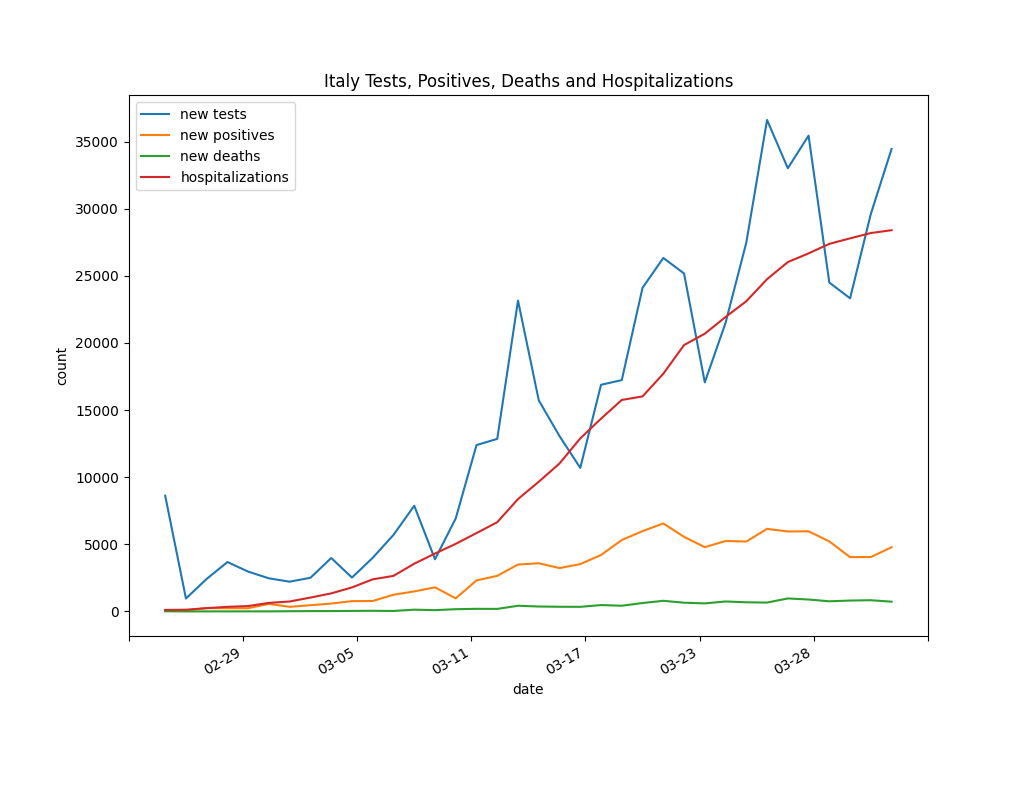
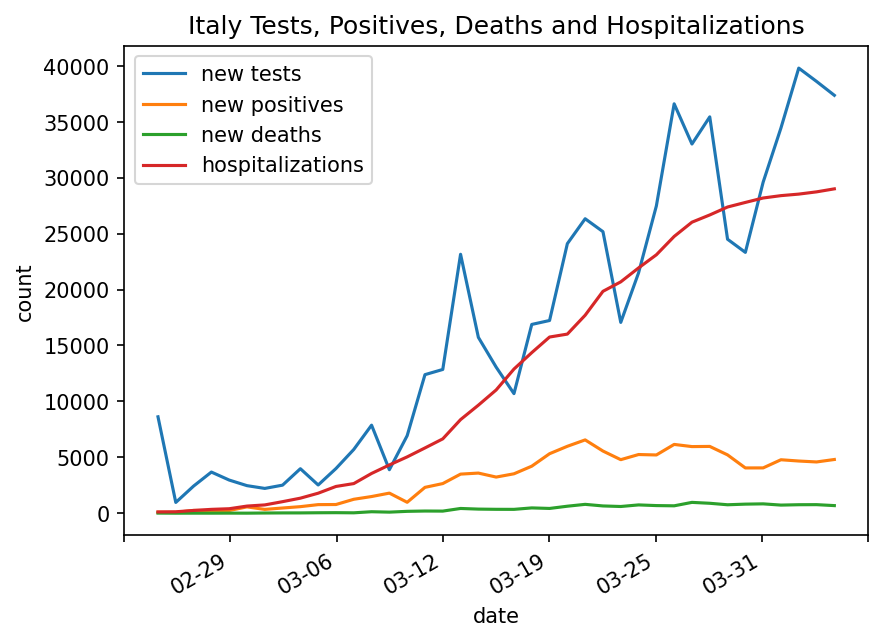
updated for US

diff --git a/analyze-us.py b/analyze-us.py
@@ -18,7 +18,6 @@ history_data = json.loads(response.content.decode('utf-8'))
 
 pos_dict = defaultdict(dict)
 neg_dict = defaultdict(dict)
-pending_dict = defaultdict(dict)
 hospitalized_dict = defaultdict(dict)
 deaths_dict = defaultdict(dict)
 
@@ -28,9 +27,11 @@ for state in history_data:
     state_abr = state['state']
     status = defaultdict(int)
 
-    for key in ['positive', 'negative', 'pending',
-                'death', 'hospitalized']:        
-        if state[key] != None:
+    keys = ['positive', 'negative', 'death', 'hospitalized']
+    for key in keys:
+        if key not in state:
+            status[key] = 0
+        elif state[key] != None:
             status[key] = int(state[key])
 
    # State Specific & US counts
@@ -38,13 +39,11 @@ for state in history_data:
         if date in pos_dict[state_id]:
             pos_dict[state_id][date] += status['positive']
             neg_dict[state_id][date] += status['negative']
-            pending_dict[state_id][date] += status['pending']
             deaths_dict[state_id][date] += status['death']
             hospitalized_dict[state_id][date] += status['hospitalized']
         else:
             pos_dict[state_id][date] = status['positive']
             neg_dict[state_id][date] = status['negative']
-            pending_dict[state_id][date] = status['pending']
             deaths_dict[state_id][date] = status['death']
             hospitalized_dict[state_id][date] = status['hospitalized']
 
@@ -67,18 +66,16 @@ for state in pos_dict:
 
     for date in sorted(pos_dict['US']):
 
-        deaths, positives, negatives = 0, 0, 0
-        pending, hospitalized = 0, 0
+        deaths, positives, negatives, hospitalized = 0, 0, 0, 0
 
         if date in pos_dict[state]:
             
             deaths = deaths_dict[state][date]
             positives = pos_dict[state][date]
             negatives = neg_dict[state][date]
-            pending = pending_dict[state][date]
             hospitalized = hospitalized_dict[state][date]
         
-        test_count = positives + negatives + pending
+        test_count = positives + negatives
         
         dates[state].append(datetime.strptime(str(date), '%Y%m%d').strftime("%m-%d"))
         new_tests[state].append(test_count - tests_prior)
@@ -102,6 +99,8 @@ for state in pos_dict:
         neg_prior = negatives
         hos_prior = hospitalized
 
+        # print(state, date, test_count)
+
 
 
 # Raw numbers country wide
@@ -123,6 +122,8 @@ plt.xlabel("date")
 plt.ylabel("count")
 plt.legend()
 fig.autofmt_xdate()
+plt.savefig('graphs/us-counts.png',
+            dpi=150.0, bbox_inches='tight')
 plt.show()
 
 
@@ -147,6 +148,8 @@ plt.xlabel("date")
 plt.ylabel("count")
 plt.legend()
 fig.autofmt_xdate()
+plt.savefig('graphs/us-counts-log.png',
+            dpi=150.0, bbox_inches='tight')
 plt.show()
 
 
@@ -168,6 +171,8 @@ plt.xlabel("date")
 plt.ylabel("positive test percentage")
 plt.legend()
 fig.autofmt_xdate()
+plt.savefig('graphs/us-test-ratios.png',
+            dpi=150.0, bbox_inches='tight')
 plt.show()
 
 
@@ -211,6 +216,8 @@ plt.xlabel("date")
 plt.ylabel("count")
 plt.legend()
 fig.autofmt_xdate()
+plt.savefig('graphs/us-tests-by-state.png',
+            dpi=150.0, bbox_inches='tight')
 plt.show()
 
 # Graphs Testing by U.S. State, LOG
@@ -230,6 +237,8 @@ plt.xlabel("date")
 plt.ylabel("count")
 plt.legend()
 fig.autofmt_xdate()
+plt.savefig('graphs/us-tests-by-state-log.png',
+            dpi=150.0, bbox_inches='tight')
 plt.show()
 
 
@@ -253,4 +262,6 @@ plt.xlabel("date")
 plt.ylabel("positive test percentage")
 plt.legend()
 fig.autofmt_xdate()
+plt.savefig('graphs/us-test-ratios-by-state.png',
+            dpi=150.0, bbox_inches='tight')
 plt.show()

diff --git a/analyze-italy.py b/analyze-italy.py
@@ -103,6 +103,8 @@ plt.xlabel("date")
 plt.ylabel("count")
 plt.legend()
 fig.autofmt_xdate()
+plt.savefig('graphs/italy-counts.png',
+            dpi=150.0, bbox_inches='tight')
 plt.show()
 
 
@@ -120,4 +122,6 @@ plt.xlabel("date")
 plt.ylabel("positive test percentage")
 plt.legend()
 fig.autofmt_xdate()
+plt.savefig('graphs/italy-test-ratios.png',
+            dpi=150.0, bbox_inches='tight')
 plt.show()
